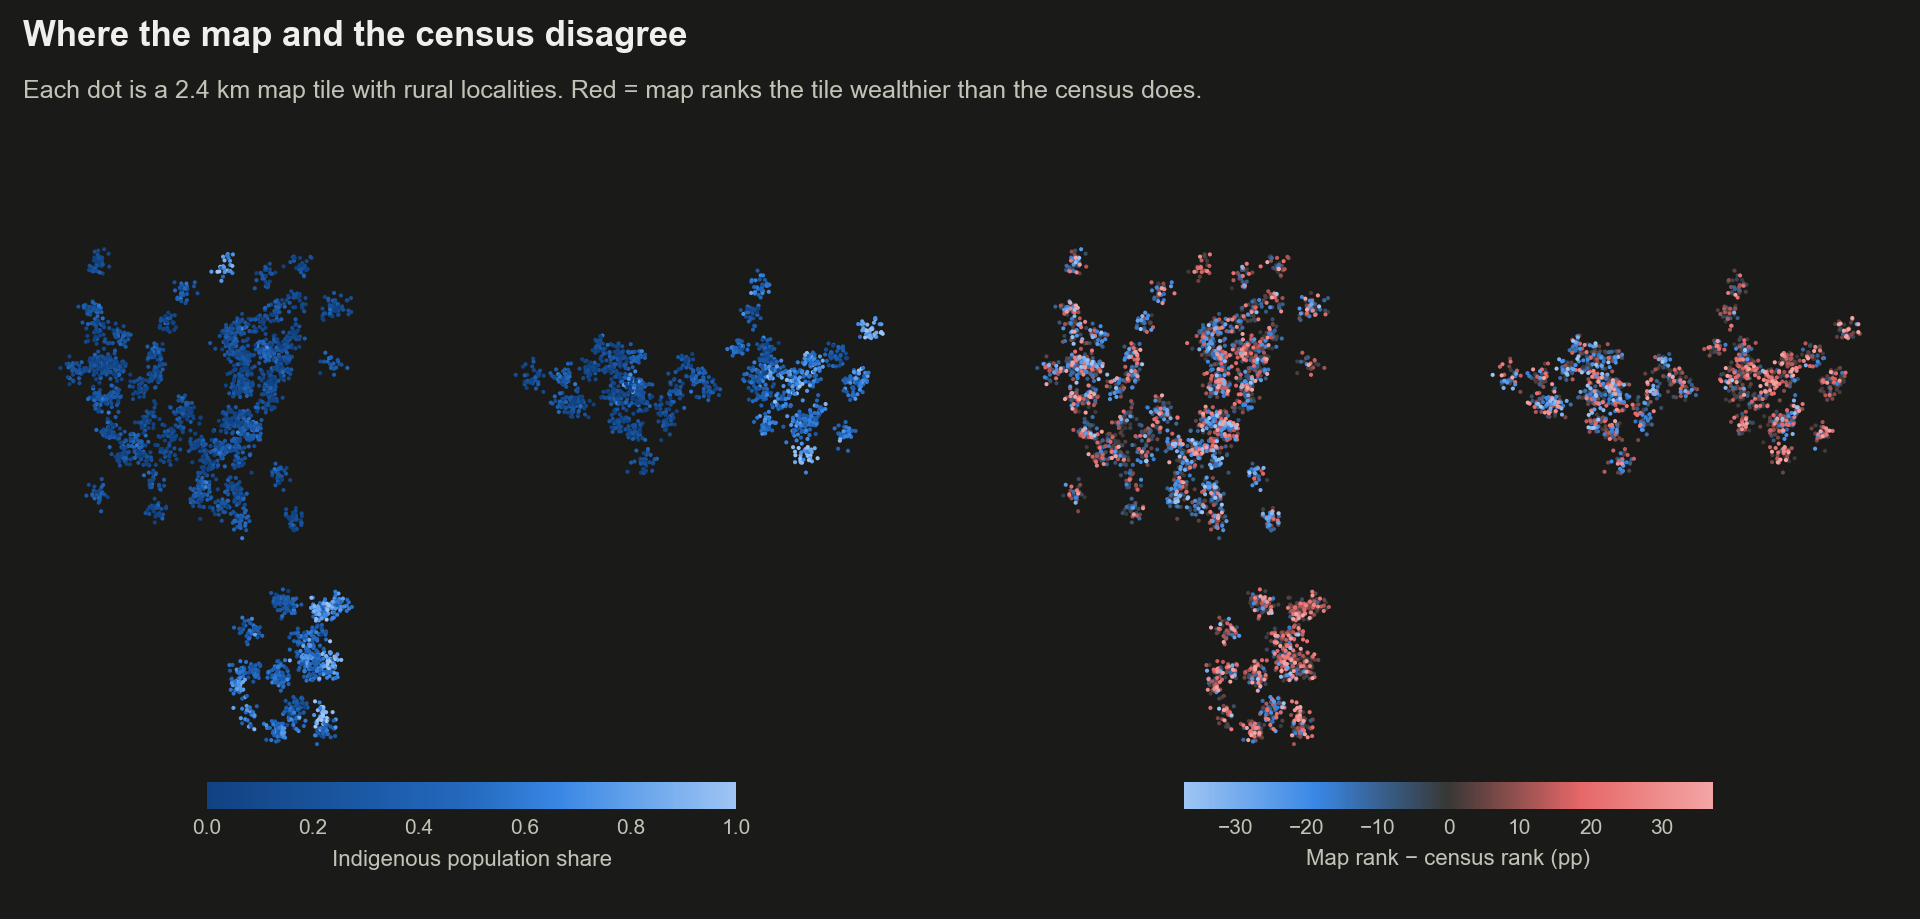
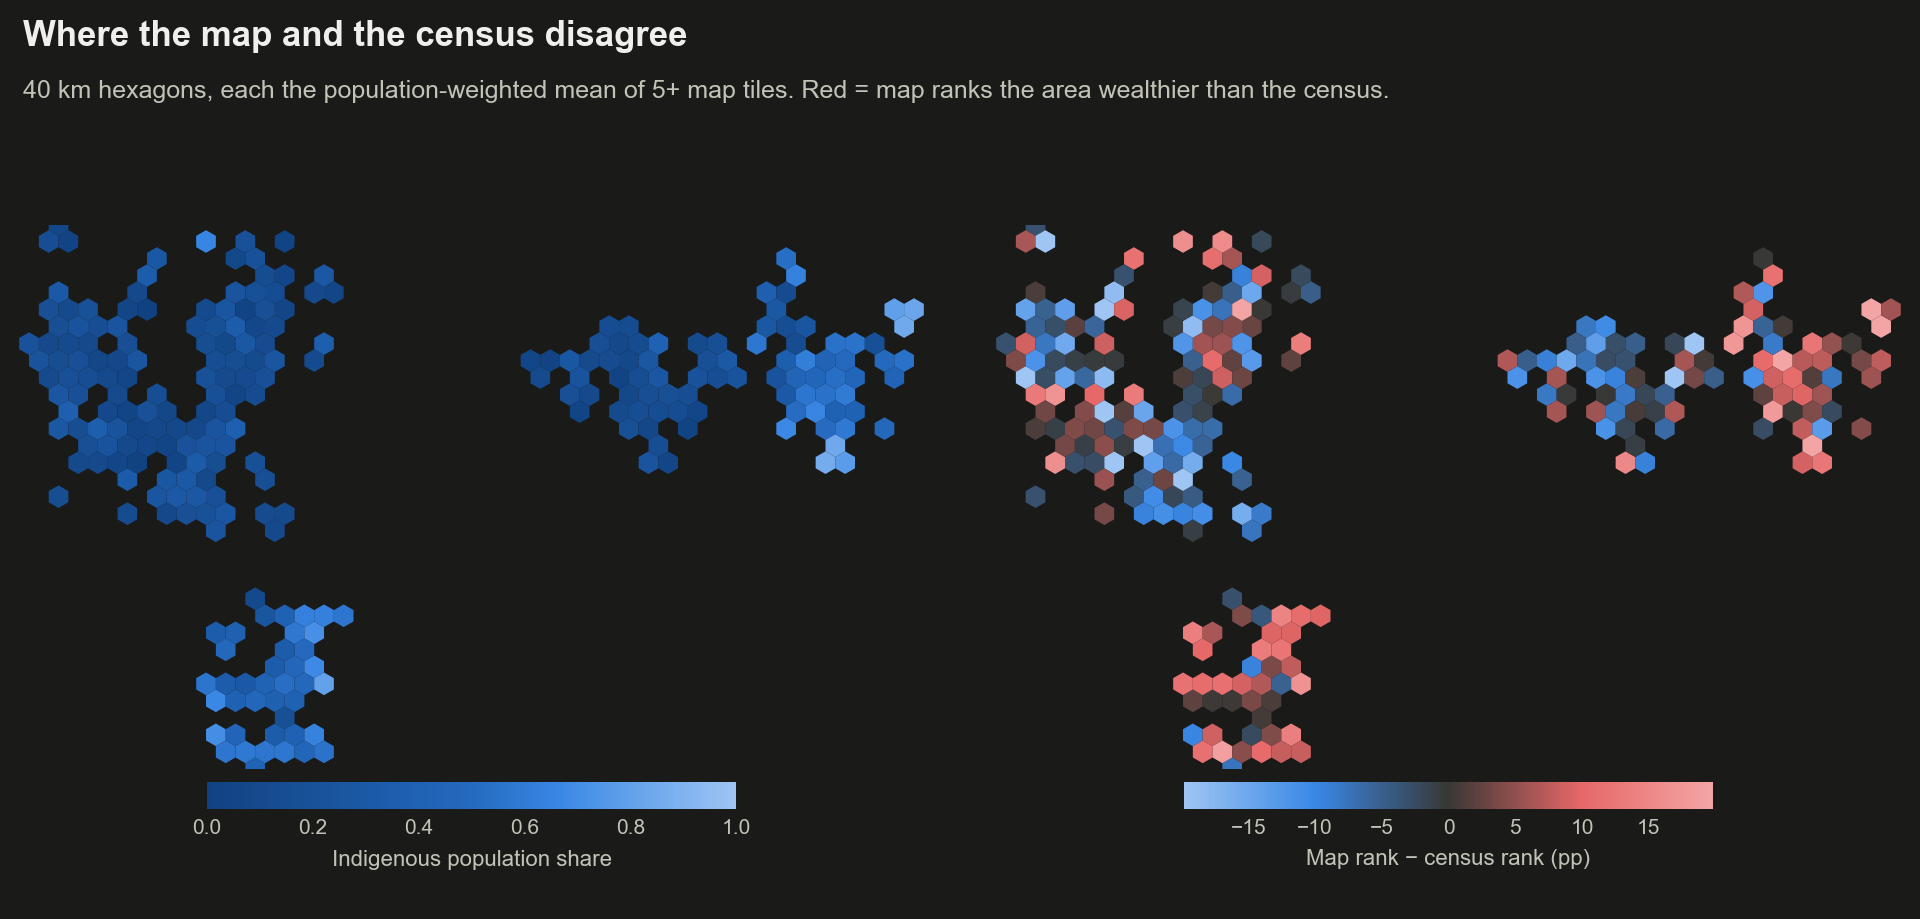
Publish maps as regional hexagons and test that tables never identify a locality
The national map plotted every 2.4 km tile, which contradicted the data card's promise that no
locality-level outputs are published. Tiles are now averaged into hexagons about 40 km across
(population-weighted), and hexagons holding fewer than five tiles are not drawn, so no single
community can be read off the map.

A new mapaudit.publication check fails the end-to-end test and the release check if any result
table carries a locality or tile identifier or coordinates.

diff --git a/src/mapaudit/plots.py b/src/mapaudit/plots.py
@@ -556,39 +556,80 @@ def fig_allocation(by_share: pd.DataFrame, by_model: pd.DataFrame, theme: dict) 
     return fig
 
 
+# Publication rule for maps (pre-analysis plan §10, ethics page): published maps show regions, not
+# communities. Tiles are averaged into hexagons about MAP_HEX_KM across, and a hexagon holding fewer
+# than MAP_MIN_TILES map tiles is not drawn, so no single locality can be read off the figure.
+MAP_HEX_KM = 40
+MAP_MIN_TILES = 5
+
+
+def _hex_grid(lon: np.ndarray, lat: np.ndarray) -> tuple[tuple[int, int], tuple[float, ...]]:
+    """Hexbin grid size and extent for hexagons about MAP_HEX_KM across that look regular on a map
+    whose latitude axis is stretched by 1 / cos(mean latitude)."""
+    coslat = float(np.cos(np.radians(np.nanmean(lat))))
+    xmin, xmax, ymin, ymax = np.nanmin(lon), np.nanmax(lon), np.nanmin(lat), np.nanmax(lat)
+    xr, yr = max(xmax - xmin, 1e-6), max(ymax - ymin, 1e-6)
+    nx = max(1, int(np.ceil(xr / (MAP_HEX_KM / (111.32 * coslat)))))
+    # matplotlib's hexagons are regular when row spacing = sqrt(3) x column spacing on screen.
+    ny = max(1, round(float(yr * nx / (np.sqrt(3) * xr * coslat))))
+    return (nx, ny), (xmin, xmin + xr, ymin, ymin + yr)
+
+
+def _hex_means(ax, lon, lat, values, weights, cmap, gridsize, extent):
+    """Population-weighted mean of ``values`` per hexagon; hexagons with too few tiles stay empty."""
+
+    def weighted_mean(idx) -> float:
+        idx = np.asarray(idx, dtype=int)
+        w = weights[idx]
+        return float(np.average(values[idx], weights=w)) if w.sum() > 0 else np.nan
+
+    return ax.hexbin(
+        lon,
+        lat,
+        C=np.arange(len(lon)),
+        reduce_C_function=weighted_mean,
+        gridsize=gridsize,
+        extent=extent,
+        mincnt=MAP_MIN_TILES,
+        cmap=cmap,
+        linewidths=0,
+    )
+
+
 def fig_map(tiles: pd.DataFrame, theme: dict) -> plt.Figure:
+    """Regional pattern of Indigenous share and rank error, aggregated to hexagons (see MAP_HEX_KM)."""
     fig, axes = plt.subplots(1, 2, figsize=(9.6, 4.6))
     fig.subplots_adjust(left=0.01, right=0.99, top=0.84, bottom=0.12, wspace=0.08)
     seq = LinearSegmentedColormap.from_list("seq", theme["seq"])
     div = LinearSegmentedColormap.from_list("div", theme["div"])
-    lim = float(np.nanpercentile(np.abs(tiles["rank_error"]), 95))
+    lon, lat = tiles["lon"].to_numpy(float), tiles["lat"].to_numpy(float)
+    pop = tiles["pop"].to_numpy(float)
+    gridsize, extent = _hex_grid(lon, lat)
     panels = [
-        (axes[0], tiles["ind_share"], seq, 0, 1, "Indigenous population share"),
-        (axes[1], tiles["rank_error"], div, -lim, lim, "Map rank − census rank (pp)"),
+        (axes[0], tiles["ind_share"].to_numpy(float), seq, False, "Indigenous population share"),
+        (axes[1], tiles["rank_error"].to_numpy(float), div, True, "Map rank − census rank (pp)"),
     ]
-    order = np.argsort(np.abs(tiles["rank_error"].to_numpy()))
-    for ax, values, cmap, vmin, vmax, label in panels:
-        sc = ax.scatter(
-            tiles["lon"].to_numpy()[order],
-            tiles["lat"].to_numpy()[order],
-            c=values.to_numpy()[order],
-            cmap=cmap,
-            vmin=vmin,
-            vmax=vmax,
-            s=2.2,
-            lw=0,
-            rasterized=True,
-        )
-        ax.set_aspect(1 / np.cos(np.radians(np.nanmean(tiles["lat"]))))
+    for ax, values, cmap, symmetric, label in panels:
+        ok = np.isfinite(lon) & np.isfinite(lat) & np.isfinite(values) & (pop > 0)
+        hexes = _hex_means(ax, lon[ok], lat[ok], values[ok], pop[ok], cmap, gridsize, extent)
+        if symmetric:
+            means = np.abs(np.asarray(hexes.get_array(), float))
+            lim = float(np.nanpercentile(means, 95)) if means.size else 0.0
+            hexes.set_clim(-(lim or 1.0), lim or 1.0)
+        else:
+            hexes.set_clim(0, 1)
+        ax.set_xlim(extent[0], extent[1])
+        ax.set_ylim(extent[2], extent[3])
+        ax.set_aspect(1 / np.cos(np.radians(np.nanmean(lat))))
         ax.axis("off")
-        cbar = fig.colorbar(sc, ax=ax, orientation="horizontal", fraction=0.04, pad=0.02, shrink=0.6)
+        cbar = fig.colorbar(hexes, ax=ax, orientation="horizontal", fraction=0.04, pad=0.02, shrink=0.6)
         cbar.outline.set_visible(False)
         cbar.ax.tick_params(labelsize=7.5, colors=theme["muted"], labelcolor=theme["ink2"])
         cbar.set_label(label, fontsize=8, color=theme["ink2"])
     _titles(
         fig,
         "Where the map and the census disagree",
-        "Each dot is a 2.4 km map tile with rural localities. Red = map ranks the tile wealthier than the census does.",
+        f"{MAP_HEX_KM} km hexagons, each the population-weighted mean of {MAP_MIN_TILES}+ map tiles. Red = map ranks the area wealthier than the census.",
         theme,
     )
     return fig

diff --git a/tests/test_publication.py b/tests/test_publication.py
@@ -1,0 +1,56 @@
+"""Publication rules: aggregated tables only, and maps that show regions rather than communities."""
+
+import matplotlib.pyplot as plt
+import numpy as np
+import pandas as pd
+
+from mapaudit import plots
+from mapaudit.publication import identifier_columns
+
+
+def test_identifier_columns_flags_locality_and_tile_keys(tmp_path):
+    pd.DataFrame({"group": ["Indigenous"], "mean_error": [1.0]}).to_csv(tmp_path / "ok.csv", index=False)
+    pd.DataFrame({"CVEGEO": ["010010001"], "rank_error": [3.0]}).to_csv(tmp_path / "leak.csv", index=False)
+    (tmp_path / "sub").mkdir()
+    pd.DataFrame({"quadkey": ["0231"], "pop": [10]}).to_csv(tmp_path / "sub" / "tiles.csv", index=False)
+    assert identifier_columns(tmp_path) == ["leak.csv: CVEGEO", "sub/tiles.csv: quadkey"]
+
+
+def _tiles(n_cluster: int) -> pd.DataFrame:
+    """``n_cluster`` tiles at one spot in Oaxaca plus a single remote tile in Chihuahua."""
+    rng = np.random.default_rng(0)
+    cluster = pd.DataFrame(
+        {
+            "lon": -96.7,
+            "lat": 17.06,
+            "pop": rng.integers(10, 500, n_cluster).astype(float),
+            "ind_share": rng.uniform(0, 1, n_cluster),
+            "rank_error": rng.normal(0, 10, n_cluster),
+        }
+    )
+    lone = pd.DataFrame(
+        {"lon": [-106.1], "lat": [28.6], "pop": [80.0], "ind_share": [0.9], "rank_error": [25.0]}
+    )
+    return pd.concat([cluster, lone], ignore_index=True)
+
+
+def _drawn(n_cluster: int):
+    tiles = _tiles(n_cluster)
+    fig = plots.fig_map(tiles, plots.THEMES["light"])
+    hexes = [ax.collections[0] for ax in fig.axes[:2]]
+    values = [np.asarray(h.get_array(), float) for h in hexes]
+    plt.close(fig)
+    return tiles, values
+
+
+def test_map_hides_hexagons_with_too_few_tiles():
+    _, values = _drawn(plots.MAP_MIN_TILES - 1)
+    assert all(v.size == 0 for v in values)  # neither the small cluster nor the lone tile is drawn
+
+
+def test_map_shows_population_weighted_means_of_dense_hexagons():
+    tiles, (share, error) = _drawn(plots.MAP_MIN_TILES)
+    cluster = tiles.iloc[: plots.MAP_MIN_TILES]
+    assert share.size == 1 and error.size == 1  # the lone tile stays hidden
+    assert np.isclose(share[0], np.average(cluster["ind_share"], weights=cluster["pop"]))
+    assert np.isclose(error[0], np.average(cluster["rank_error"], weights=cluster["pop"]))

diff --git a/src/mapaudit/publication.py b/src/mapaudit/publication.py
@@ -1,0 +1,34 @@
+"""Publication rules: only aggregated results leave the analyst's computer.
+
+The data card, the ethics page and section 10 of the pre-analysis plan promise that published
+tables never identify a locality or a map tile. The pipeline's tables are aggregated by
+construction (by group, decile, locality size or groups of municipalities); ``identifier_columns``
+checks that this stays true. The end-to-end test runs it on every push, and the release check runs
+it on the real-data tables before anything is shared.
+
+Maps follow the same rule through hexagon aggregation (see ``MAP_HEX_KM`` in ``plots.py``).
+"""
+
+from __future__ import annotations
+
+import csv
+from pathlib import Path
+
+# Column names (case-insensitive) that would tie a row to one locality or one map tile.
+IDENTIFIER_COLUMNS = frozenset(
+    {"cvegeo", "loc", "cve_loc", "nom_loc", "quadkey", "lat", "lon", "latitud", "longitud", "geometry"}
+)
+
+
+def identifier_columns(table_dir: Path) -> list[str]:
+    """``file.csv: column`` for every CSV under ``table_dir`` with a locality- or tile-level key."""
+    problems = []
+    for path in sorted(Path(table_dir).rglob("*.csv")):
+        with path.open(encoding="utf-8", newline="") as f:
+            header = next(csv.reader(f), [])
+        problems += [
+            f"{path.relative_to(table_dir).as_posix()}: {col}"
+            for col in header
+            if col.strip().lower() in IDENTIFIER_COLUMNS
+        ]
+    return problems

diff --git a/scripts/check_release.py b/scripts/check_release.py
@@ -1,4 +1,5 @@
-"""Pre-share checklist: fails if placeholders remain or real results are missing.
+"""Pre-share checklist: fails if placeholders remain, real results are missing, or a result table
+identifies a locality or map tile (the publication rules in docs/ethics.md).
 
 python scripts/check_release.py
 """
@@ -48,6 +49,15 @@ def main() -> int:
     for req in REQUIRED:
         if not (ROOT / req).exists():
             problems.append(f"missing real-data output: {req} (run notebooks 02-06)")
+    sys.path.insert(0, str(ROOT / "src"))
+    from mapaudit.publication import identifier_columns
+
+    real = ROOT / "results" / "real"
+    if real.exists():
+        problems += [
+            f"results/real/{hit}: locality- or tile-level column (only aggregates may be published)"
+            for hit in identifier_columns(real)
+        ]
     if problems:
         print("Not ready to share:\n  " + "\n  ".join(problems))
         return 1

diff --git a/src/mapaudit/report.py b/src/mapaudit/report.py
@@ -336,7 +336,11 @@ def write_page(mode: str, root: Path | None = None) -> Path:
                                             "misallocation_share_mean": ("Budget misallocated", "pct"),
                                             "ape_median_mean": ("Median municipal error", "pct")}, None,
            "**Challenger models instead of the census** (mean over survey draws):")]),
-        ("map", "Map", None, []),
+        ("map", "Map",
+         f"Regional patterns only: each hexagon (about {plots.MAP_HEX_KM} km across) is the population-weighted "
+         f"mean of at least {plots.MAP_MIN_TILES} map tiles, and sparser hexagons are not drawn, so no single "
+         "community can be read off the map ([publication rules](ethics.md#publication-rules)).",
+         []),
     ]  # fmt: skip
     if (rob := _load(t, "robustness")) is not None:
         sections_rob = md_table(

diff --git a/tests/test_pipeline_smoke.py b/tests/test_pipeline_smoke.py
@@ -6,6 +6,7 @@ import warnings
 from mapaudit import pipeline, report
 from mapaudit.config import get_paths
 from mapaudit.plots import FigureLayoutWarning
+from mapaudit.publication import identifier_columns
 
 
 def test_demo_pipeline_end_to_end(tmp_repo):
@@ -46,3 +47,5 @@ def test_demo_pipeline_end_to_end(tmp_repo):
     page = (tmp_repo / "docs" / "validation.md").read_text()
     assert "Synthetic data" in page and "Headline numbers" in page
     assert json.loads((paths.tables / "build_summary.json").read_text())["localities"] > 0
+    # Publication rule: no result table may identify a locality or a map tile.
+    assert identifier_columns(paths.tables) == []

diff --git a/docs/validation.md b/docs/validation.md
@@ -425,6 +425,8 @@ Misallocated share = half the sum of absolute differences between map-based and 
 
 ## Map
 
+Regional patterns only: each hexagon (about 40 km across) is the population-weighted mean of at least 5 map tiles, and sparser hexagons are not drawn, so no single community can be read off the map ([publication rules](ethics.md#publication-rules)).
+
 ![Map](assets/figures/demo/map.png#only-light)
 ![Map](assets/figures/demo/map-dark.png#only-dark)
 
